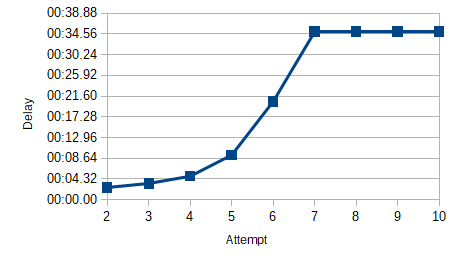
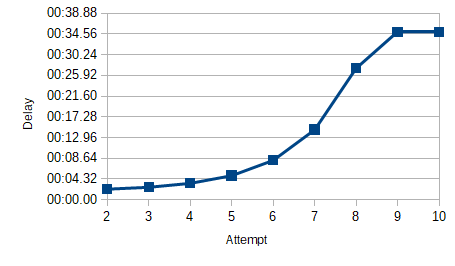
Simplify ExponentialBackoffDelayRetryStrategy

diff --git a/src/Saritasa.Tools.Common/Utils/FlowUtils`Retry.cs b/src/Saritasa.Tools.Common/Utils/FlowUtils`Retry.cs
@@ -498,6 +498,10 @@ namespace Saritasa.Tools.Common.Utils
             {
                 Guard.IsNotNegative(deltaBackoff.Value, nameof(deltaBackoff));
             }
+            else
+            {
+                deltaBackoff = TimeSpan.FromSeconds(1.0);
+            }
             if (minBackoff > maxBackoff)
             {
                 throw new ArgumentOutOfRangeException(nameof(minBackoff),
@@ -528,21 +532,14 @@ namespace Saritasa.Tools.Common.Utils
                     // delta = delta * random(deltaBackoff * 0.8, deltaBackoff * 1.2)
                     // interval = min(minBackoff + delta, maxBackoff)
                     double delta = Math.Pow(2.0, attemptCount) - 1.0;
-                    if (deltaBackoff.HasValue)
+                    if (randomizeDeltaBackoff)
                     {
-                        if (randomizeDeltaBackoff)
-                        {
-                            Random random = new Random();
-                            delta *= random.Next((int)(deltaBackoff.Value.TotalMilliseconds * 0.8), (int)(deltaBackoff.Value.TotalMilliseconds * 1.2));
-                        }
-                        else
-                        {
-                            delta *= deltaBackoff.Value.TotalMilliseconds;
-                        }
+                        Random random = new Random();
+                        delta *= random.Next((int)(deltaBackoff.Value.TotalMilliseconds * 0.8), (int)(deltaBackoff.Value.TotalMilliseconds * 1.2));
                     }
                     else
                     {
-                        delta *= 1000;
+                        delta *= deltaBackoff.Value.TotalMilliseconds;
                     }
                     int interval = (int)Math.Min(minBackoff.Value.TotalMilliseconds + delta, maxBackoff.Value.TotalMilliseconds);
                     neededDelay = TimeSpan.FromMilliseconds(interval);

diff --git a/samples/SandBox/SandBox/RetryStrategyDemo.cs b/samples/SandBox/SandBox/RetryStrategyDemo.cs
@@ -32,6 +32,7 @@ namespace SandBox
             minBackoff: TimeSpan.FromSeconds(2),
             maxBackoff: TimeSpan.FromSeconds(35),
             deltaBackoff: null,
+            randomizeDeltaBackoff: false,
             firstFastRetry: false
         );
 
@@ -39,7 +40,8 @@ namespace SandBox
             numberOfTries: maxNumberOfTries,
             minBackoff: TimeSpan.FromSeconds(2),
             maxBackoff: TimeSpan.FromSeconds(35),
-            deltaBackoff: TimeSpan.FromSeconds(0.5),
+            deltaBackoff: TimeSpan.FromSeconds(0.2),
+            randomizeDeltaBackoff: false,
             firstFastRetry: false
         );
 

diff --git a/docs/common/flow.rst b/docs/common/flow.rst
@@ -68,7 +68,7 @@ Methods that affect application execution flow.
 
             .. image:: flow-retry-exp.png
 
-        You can add randomization and change the delay behavior with ``deltaBackoff`` parameter. Make it more aggressive or optimistic. For example the same graph with delta backoff 0.5 sec:
+        You can add randomization and change the delay behavior with ``deltaBackoff`` parameter. Make it more aggressive or optimistic. For example the same graph with delta backoff 0.2 sec:
 
             .. image:: flow-retry-exp2.png
 
